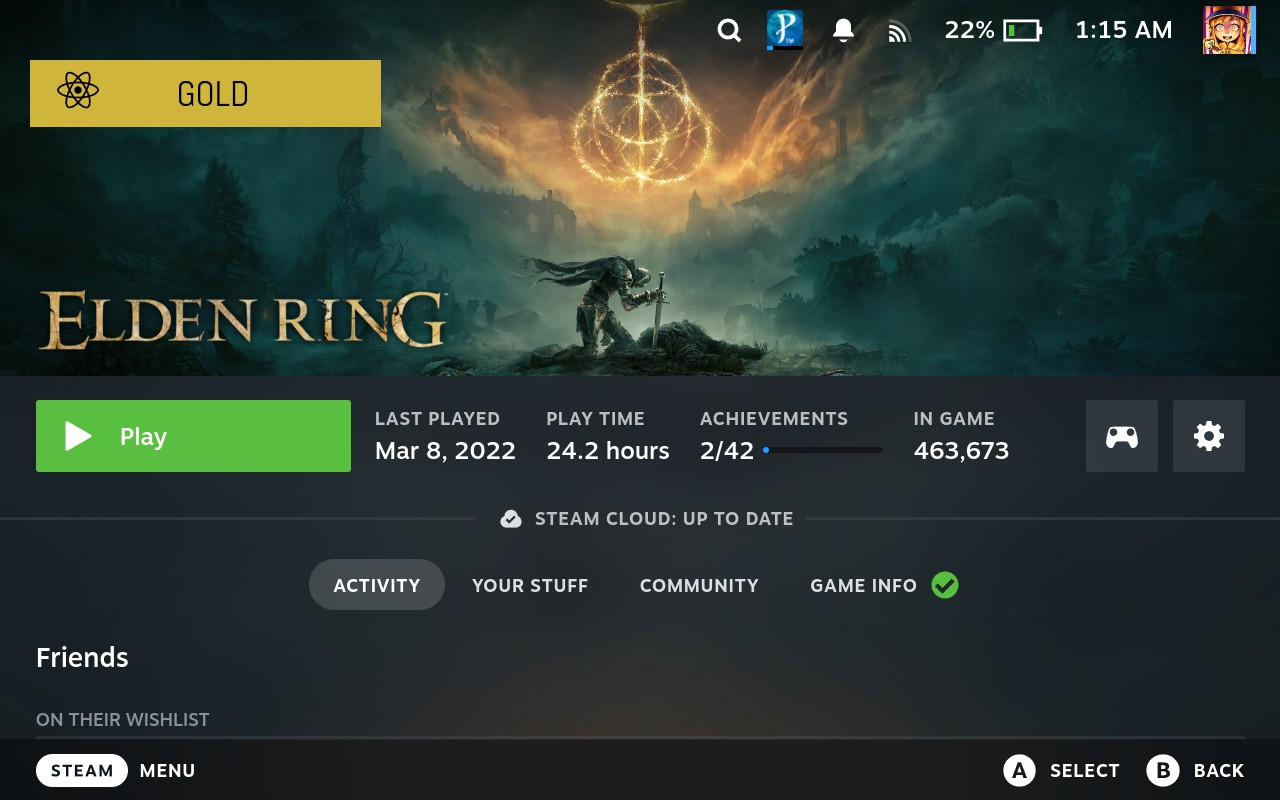
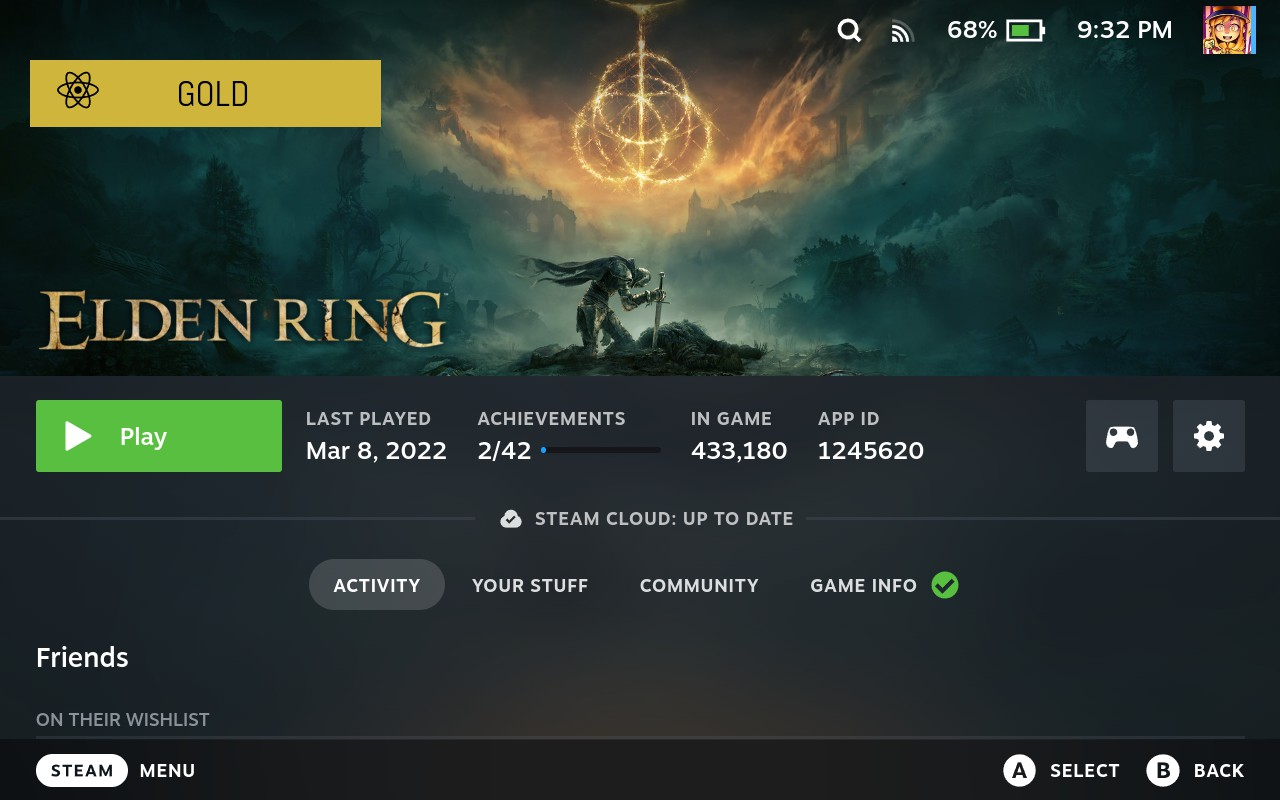
Rename plugin to "Game Stats UI Manager"

Changed region(s): [[0.2188, 0.5, 0.7812, 0.5938], [0.5625, 0.0, 0.8125, 0.0625], [0.8438, 0.0312, 0.9062, 0.0625]]

diff --git a/src/style.ts b/src/style.ts
@@ -4,11 +4,11 @@ import { Store, useStore } from './store'
 const updateStyle = (styleType: Store['playButtonSize']) => {
   const doc = findSP().document
 
-  let style = doc.getElementById('players-in-game-style')
+  let style = doc.getElementById('game-stats-ui-manager-style')
 
   if (!style) {
     style = doc.createElement('style')
-    style.id = 'players-in-game-style'
+    style.id = 'game-stats-ui-manager-style'
     doc.head.append(style)
   }
 
@@ -45,7 +45,7 @@ useStore.subscribe((state, prevState) => {
 
 const setupStyle = () => {
   updateStyle(useStore.getState().playButtonSize)
-  return () => findSP().document.getElementById('players-in-game-style')?.remove()
+  return () => findSP().document.getElementById('game-stats-ui-manager-style')?.remove()
 }
 
 export default setupStyle

diff --git a/src/index.tsx b/src/index.tsx
@@ -1,5 +1,5 @@
 import { definePlugin, ServerAPI, staticClasses } from 'decky-frontend-lib'
-import { FaPeopleGroup } from 'react-icons/fa6'
+import { IoIosStats } from 'react-icons/io'
 import patchLibraryApp from './patchLibraryApp'
 import QuickAccessContent from './QuickAccessContent'
 import setupStyle from './style'
@@ -9,8 +9,8 @@ export default definePlugin((serverAPI: ServerAPI) => {
   const removeStyle = setupStyle()
 
   return {
-    title: <div className={staticClasses.Title}>Players in game</div>,
-    icon: <FaPeopleGroup />,
+    title: <div className={staticClasses.Title}>Game Stats UI Manager</div>,
+    icon: <IoIosStats />,
     content: <QuickAccessContent />,
     onDismount: () => {
       unpatch()

diff --git a/src/store.ts b/src/store.ts
@@ -52,6 +52,6 @@ export const useStore = create<Store>()(
 
       reset: () => set(initialState),
     }),
-    { name: 'players-in-game' },
+    { name: 'game-stats-ui-manager' },
   ),
 )

diff --git a/README.md b/README.md
@@ -1,8 +1,16 @@
-# Players In Game for Deck Loader
+# Game Stats UI Manager for Deck Loader
 
-Adds a info panel to the game page displaying how many players are currently in game. This info is pulled directly from the steam web API.
+Manage the game stats displayed on the app details page. Supports changing order, visibility, and adding a few additional stats.
 
-![Screenshot show new info panel](/screenshot.jpg?raw=true)
+## Custom stats
+* In game
+  Displays how many players are currently playing the game according the the steam web API.
+* App ID
+  Displays steam App ID of the currently selected game.
+
+If there any additinal stats or modifications you would like please do not hesitate to open an issue.
+
+![Screenshot showing the new game stats section](/screenshot.jpg?raw=true)
 
 ## Installing manually
 
